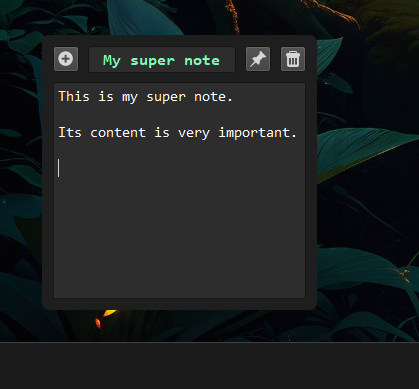
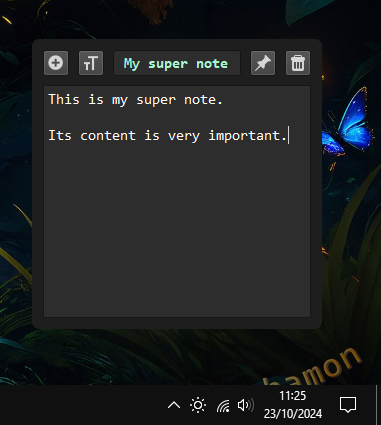
[no ci] readme

diff --git a/README.md b/README.md
@@ -1,6 +1,6 @@
 # Qwote
 
-![image](assets/screenshot.png)
+![image](assets/screenshot.png) ![image](assets/screenshot_editor.png)
 
 ## Features
 
@@ -11,11 +11,14 @@ Qwote feature a tray icon. With it you can:
 - Delete all opened notes
 - Exit
 
-Notes features 3 buttons:
+Notes features 4 buttons:
 
 - New button
+- Editor tools
 - Pin button
 - Delete button
+
+Editor tools button will show advanced text controls.
 
 Pin button will keep your notes on top of other windows.
 
